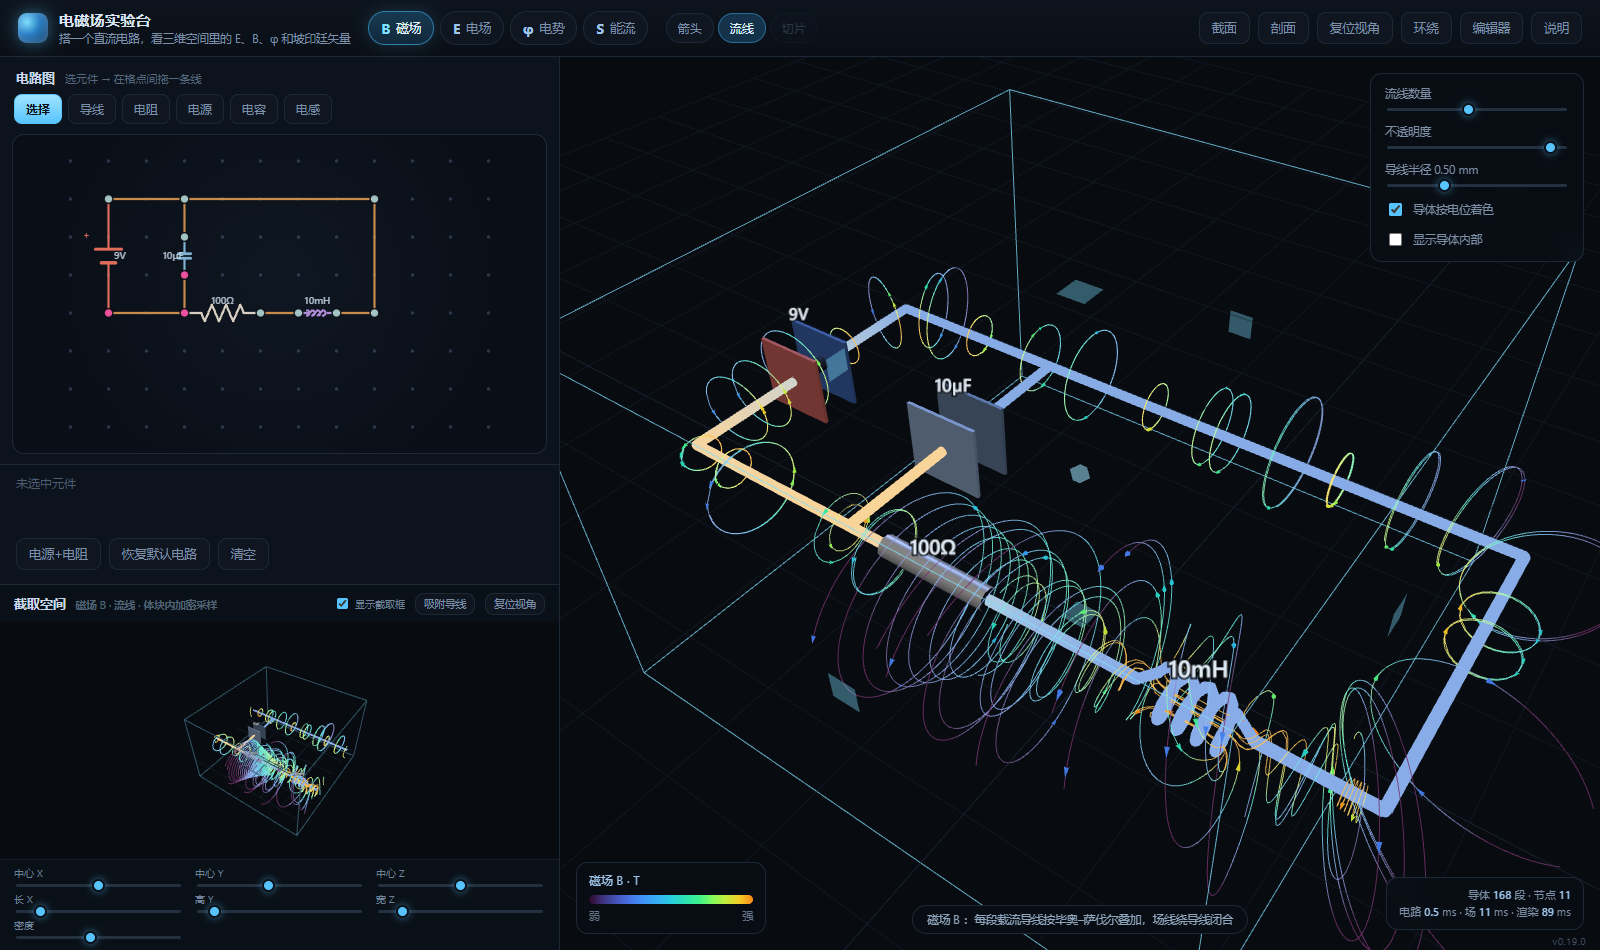
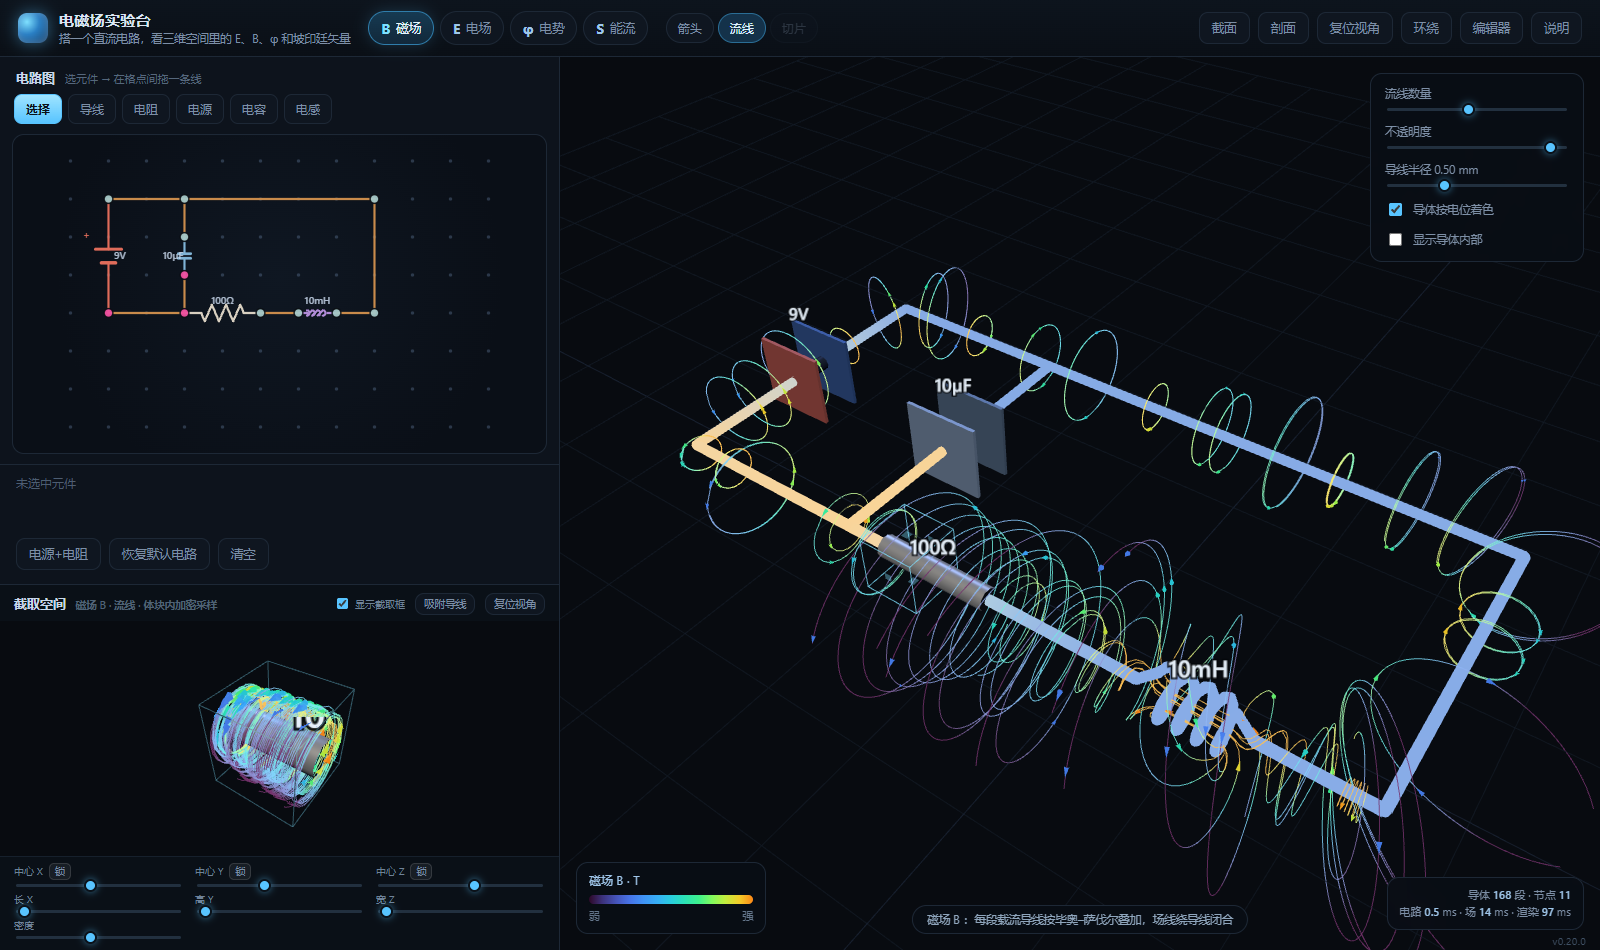
feat: 截取空间默认吸附导线；中心 XYZ 可上锁；去掉独立窗口；立体视图箭头密度可调且与贴图同色（v0.20.0）
- slicepane: 首次进入直接 snapToWire()（原来是铺满整个电路），初始就落在发热最大的导线上
- slicepane + app: 中心 X/Y/Z 各加一个「锁」，锁住的轴在拖动截取框（setWorldBox）和
  拖滑杆（setBox）时都不变，滑杆同时置灰
- slice: 删除 openPopup / pushPopup / 独立窗口按钮（只能丢一张静态图到新窗口，没法交互）
- slice 3D: 箭头网格密度做成滑杆（默认 16×16，和二维图对齐），只在立体模式下显示；
  箭头长度/粗细缩小约 25%；箭头颜色改用和贴图完全相同的归一化，
  修掉「紫色区域外箭头还是紫色」的配色错位
- test: 新增 3 项（独立窗口已移除 / 锁定 X 不改 / 解锁后恢复），共 55 项
- 版本 0.20.0，文档与截图更新

diff --git a/js/slice.js b/js/slice.js
@@ -107,6 +107,7 @@ export class SliceTool {
 
     this.state = { cx: 0, cy: 0, cz: 0, yaw: 0, pitch: 90, size: 3.4, field: 'S', visible: false };
     this.mode3d = false;     // 窗口是否显示「立体视图」
+    this.arrowN = 16;        // 立体视图的箭头网格密度（可调）
     this._paintTick = 0;
 
     this.group = new THREE.Group();
@@ -452,42 +453,6 @@ export class SliceTool {
     this.dom.legendHi.textContent = fmtSci(this.norm.hi);
     this.dom.unit.textContent = f.unit;
     this.dom.title.textContent = f.label;
-    if (this.popup && !this.popup.closed) this.pushPopup();
-  }
-
-  /* ---------------- 独立窗口 ---------------- */
-  openPopup() {
-    try {
-      const w = window.open('', 'emlab-slice', 'width=880,height=980');
-      if (!w) return false;
-      w.document.write(`<!DOCTYPE html><html lang="zh-CN"><head><meta charset="utf-8">
-        <title>电磁场实验台 · 截面</title>
-        <style>html,body{margin:0;background:#070a0f;color:#dbe6f2;
-          font:13px/1.5 'Segoe UI','Microsoft YaHei',sans-serif}
-        #t{padding:10px 14px;font-weight:600;color:#9fc6ea}
-        #img{display:block;width:100%;image-rendering:auto}
-        #lg{padding:8px 14px 16px;color:#7d8fa6;font-size:11.5px}</style></head>
-        <body><div id="t"></div><img id="img" alt="section"><div id="lg"></div></body></html>`);
-      w.document.close();
-      this.popup = w;
-      this.pushPopup();
-      return true;
-    } catch (e) {
-      console.warn('独立窗口打开失败', e);
-      return false;
-    }
-  }
-
-  pushPopup() {
-    const { popup } = this;
-    if (!popup || popup.closed) return;
-    try {
-      popup.document.getElementById('img').src = this.dom.canvas.toDataURL('image/png');
-      popup.document.getElementById('t').textContent =
-        `${FIELDS[this.state.field].label} · ${this.valueN}² 采样 · ${this.state.size.toFixed(2)} 格`;
-      popup.document.getElementById('lg').textContent =
-        `色标 ${fmtSci(this.norm.lo)} → ${fmtSci(this.norm.hi)} ${FIELDS[this.state.field].unit}`;
-    } catch (e) { /* 被跨窗口策略拦掉就算了 */ }
   }
 
   /* ---------------- 交互 ---------------- */
@@ -570,8 +535,14 @@ export class SliceTool {
       this.update();
     }));
     if (d.mode3dBtn) d.mode3dBtn.addEventListener('click', () => this.setMode3D(!this.mode3d));
+    if (d.dens) {
+      d.dens.addEventListener('input', (e) => {
+        this.arrowN = Math.max(4, Math.min(40, +e.target.value));
+        if (d.densLabel) d.densLabel.textContent = String(this.arrowN);
+        this.update3D();
+      });
+    }
     d.wireBtn.addEventListener('click', () => this.attachToWire());
-    d.popBtn.addEventListener('click', () => this.openPopup());
     d.closeBtn.addEventListener('click', () => this.show(false));
     d.canvas.addEventListener('mousemove', (e) => this.probe(e));
     d.canvas.addEventListener('mouseleave', () => { d.probe.textContent = ''; });
@@ -741,7 +712,7 @@ export class SliceTool {
     if (this.state.field === 'phi') return;
 
     const plane = this.plane;
-    const NA = 13;
+    const NA = Math.max(4, Math.min(40, this.arrowN || 16));
     const step = S / NA;
     const items = [];
     for (let j = 0; j < NA; j++) {
@@ -787,13 +758,15 @@ export class SliceTool {
       if (dir.lengthSq() < 1e-12) dir.set(0, 0, 1);
       dir.normalize();
       q.setFromUnitVectors(up, dir);
-      const L = step * (0.45 + 0.55 * t);
+      const L = step * (0.34 + 0.42 * t);
       dummy.position.set(it.u + it.d[0] * L * 0.5, it.v + it.d[1] * L * 0.5, it.d[2] * L * 0.5);
       dummy.quaternion.copy(q);
-      dummy.scale.set(L * 0.34, L, L * 0.34);
+      dummy.scale.set(L * 0.26, L, L * 0.26);
       dummy.updateMatrix();
       mesh.setMatrixAt(k, dummy.matrix);
-      const cc = turbo3(t);
+      // 用和贴图完全相同的归一化，颜色才对得上
+      const nm = this._texNorm || this.norm;
+      const cc = nm ? nm.color(it.m) : turbo3(t);
       col.setRGB(cc[0], cc[1], cc[2], THREE.SRGBColorSpace);
       mesh.setColorAt(k, col);
     }
@@ -818,6 +791,7 @@ export class SliceTool {
       this._raf3 = null;
     }
     if (this.dom.probe) this.dom.probe.classList.toggle('hidden', this.mode3d);
+    if (this.dom.densWrap) this.dom.densWrap.classList.toggle('hidden', !this.mode3d);
   }
 
   /** 平面中心投影到页面坐标（自检/调试用） */

diff --git a/js/app.js b/js/app.js
@@ -36,6 +36,7 @@ const state = {
   slicePos: 0,
   colorByPot: true,
   interior: false,     // 是否画导体内部的场
+  boxLock: { x: false, y: false, z: false },   // 锁定后拖动截取框不会改这一轴
   autoRotate: false,
   wireRadius: 0.05,     // 世界单位（1 单位 = 1 cm）
   analysisOn: false,
@@ -82,8 +83,9 @@ const slice = new SliceTool(scene3d, {
   cxLabel: $('sw-cx-label'), cyLabel: $('sw-cy-label'), czLabel: $('sw-cz-label'),
   sizeLabel: $('sw-size-label'),
   field: $('sw-field'), axisButtons: [...document.querySelectorAll('#sw-axis button')],
-  wireBtn: $('sw-wire'), popBtn: $('sw-pop'), closeBtn: $('sw-close'), probe: $('sw-probe'),
+  wireBtn: $('sw-wire'), closeBtn: $('sw-close'), probe: $('sw-probe'),
   canvas3: $('sw-canvas3'), mode3dBtn: $('sw-mode3d'),
+  dens: $('sw-dens'), densWrap: $('sw-dens-wrap'), densLabel: $('sw-dens-label'),
 });
 
 /* ---------------- 求解 + 重建 ---------------- */
@@ -338,6 +340,9 @@ const spBind = (id, key, scale) => {
   const el = $(id);
   if (!el) return;
   el.addEventListener('input', (e) => {
+    if (key === 'cx' && state.boxLock.x) return;
+    if (key === 'cy' && state.boxLock.y) return;
+    if (key === 'cz' && state.boxLock.z) return;
     slicePane.setBox({ [key]: +e.target.value / scale });
     boxGizmo.setBox(slicePane.worldBox);
     // 改尺寸时自动重新取景，让体块继续铺满画框
@@ -353,6 +358,23 @@ spBind('sp-cz', 'cz', 20);
 spBind('sp-sx', 'sx', 10);
 spBind('sp-sy', 'sy', 10);
 spBind('sp-sz', 'sz', 10);
+// 中心轴锁定：锁住后拖动截取框 / 拖滑杆都不会改这一轴
+const LOCK_SLIDER = { x: 'sp-cx', y: 'sp-cy', z: 'sp-cz' };
+for (const ax of ['x', 'y', 'z']) {
+  const btn = $('sp-lock-' + ax);
+  if (!btn) continue;
+  btn.addEventListener('click', (e) => {
+    e.preventDefault();
+    e.stopPropagation();
+    state.boxLock[ax] = !state.boxLock[ax];
+    btn.classList.toggle('on', state.boxLock[ax]);
+    const rng = $(LOCK_SLIDER[ax]);
+    if (rng) rng.disabled = state.boxLock[ax];
+    slicePane.setLocks(state.boxLock);
+  });
+}
+slicePane.setLocks(state.boxLock);
+
 $('sp-fit')?.addEventListener('click', () => slicePane.frame());
 $('sp-snap')?.addEventListener('click', () => {
   slicePane.snapToWire();
@@ -758,6 +780,30 @@ function runSelfTest() {
       ok(true, '截取空间面板');
     } catch (err) {
       ok(false, '截取空间面板抛错', String(err.message).slice(0, 80));
+    }
+
+    // 9.58 中心轴锁定 + 独立窗口已移除
+    try {
+      ok(document.getElementById('sw-pop') === null, '独立窗口按钮已移除');
+      const wb = slicePane.worldBox;
+      const min0 = [...wb.min], max0 = [...wb.max];
+      const cx0 = slicePane.box.cx;
+
+      state.boxLock.x = true;
+      slicePane.setLocks(state.boxLock);
+      slicePane.setWorldBox([min0[0] + 2, min0[1], min0[2]], [max0[0] + 2, max0[1], max0[2]]);
+      ok(Math.abs(slicePane.box.cx - cx0) < 1e-9, '锁定 X 后拖动不改中心 X');
+
+      state.boxLock.x = false;
+      slicePane.setLocks(state.boxLock);
+      slicePane.setWorldBox([min0[0] + 2, min0[1], min0[2]], [max0[0] + 2, max0[1], max0[2]]);
+      ok(Math.abs(slicePane.box.cx - cx0 - 2) < 0.05, '解锁后拖动恢复修改中心 X');
+
+      slicePane.setWorldBox(min0, max0);
+    } catch (err) {
+      ok(false, '锁定轴测试抛错', String(err.message).slice(0, 80));
+      state.boxLock.x = false;
+      slicePane.setLocks(state.boxLock);
     }
 
     // 9.59 面板里的导体内部箭头

diff --git a/index.html b/index.html
@@ -91,9 +91,9 @@
       </div>
       <div id="sp-container"></div>
       <div class="sp-ctl">
-        <label><span>中心 X</span><input type="range" id="sp-cx" min="-150" max="150" value="0"></label>
-        <label><span>中心 Y</span><input type="range" id="sp-cy" min="-100" max="150" value="7"></label>
-        <label><span>中心 Z</span><input type="range" id="sp-cz" min="-150" max="150" value="0"></label>
+        <label class="locked-wrap"><span>中心 X<button type="button" class="lockbtn" id="sp-lock-x" title="锁定后拖动截取框不会改变 X">锁</button></span><input type="range" id="sp-cx" min="-150" max="150" value="0"></label>
+        <label class="locked-wrap"><span>中心 Y<button type="button" class="lockbtn" id="sp-lock-y" title="锁定后拖动截取框不会改变 Y">锁</button></span><input type="range" id="sp-cy" min="-100" max="150" value="7"></label>
+        <label class="locked-wrap"><span>中心 Z<button type="button" class="lockbtn" id="sp-lock-z" title="锁定后拖动截取框不会改变 Z">锁</button></span><input type="range" id="sp-cz" min="-150" max="150" value="0"></label>
         <label><span>长 X</span><input type="range" id="sp-sx" min="0" max="240" value="48"></label>
         <label><span>高 Y</span><input type="range" id="sp-sy" min="0" max="240" value="30"></label>
         <label><span>宽 Z</span><input type="range" id="sp-sz" min="0" max="240" value="48"></label>
@@ -152,7 +152,6 @@
           <span class="sw-title">截面 · <b id="sw-title">|S| 能流</b></span>
           <span class="sw-btns">
             <button id="sw-mode3d" title="把截面图放到可旋转的立体视图里（平面贴图 + 立体箭头）">立体</button>
-            <button id="sw-pop" title="在独立窗口里打开（可拖到另一块屏幕）">独立窗口</button>
             <button id="sw-close" title="关闭">×</button>
           </span>
         </div>
@@ -183,6 +182,8 @@
           <label><span>俯仰</span><input type="range" id="sw-pitch" min="-90" max="90" value="90"></label>
           <label><span>尺寸 <i id="sw-size-label">3.40 格</i></span>
             <input type="range" id="sw-size" min="2" max="90" value="34"></label>
+          <label id="sw-dens-wrap" class="hidden"><span>箭头密度 <i id="sw-dens-label">16</i></span>
+            <input type="range" id="sw-dens" min="5" max="30" value="16"></label>
         </div>
         <div class="sw-foot">
           <div class="seg" id="sw-axis">

diff --git a/js/slicepane.js b/js/slicepane.js
@@ -57,9 +57,10 @@ export class SlicePane {
   setWorldBox(min, max) {
     const base = this.base;
     const c = [(min[0] + max[0]) / 2, (min[1] + max[1]) / 2, (min[2] + max[2]) / 2];
-    this.box.cx = c[0] - base[0];
-    this.box.cy = c[1] - base[1];
-    this.box.cz = c[2] - base[2];
+    const L = this.locks || {};
+    this.box.cx = L.x ? this.box.cx : c[0] - base[0];
+    this.box.cy = L.y ? this.box.cy : c[1] - base[1];
+    this.box.cz = L.z ? this.box.cz : c[2] - base[2];
     this.box.sx = Math.max(0.004, (max[0] - min[0]) / 2);
     this.box.sy = Math.max(0.004, (max[1] - min[1]) / 2);
     this.box.sz = Math.max(0.004, (max[2] - min[2]) / 2);
@@ -87,6 +88,9 @@ export class SlicePane {
   }
 
   /* ---------------- 场景 ---------------- */
+  /** 锁定的中心轴：锁定后拖动截取框不会改这一轴 */
+  setLocks(l) { this.locks = { x: !!(l && l.x), y: !!(l && l.y), z: !!(l && l.z) }; }
+
   setScene({ solver, bounds, parts, colorByPotential, conductorR }) {
     this.solver = solver;
     this.bounds = bounds;
@@ -99,10 +103,11 @@ export class SlicePane {
       (bounds.min[2] + bounds.max[2]) / 2,
     ];
     if (!this._fitted) {
-      const span = Math.max(bounds.max[0] - bounds.min[0], bounds.max[2] - bounds.min[2], 3);
-      this.box.sx = this.box.sz = Math.max(1.2, span * 0.42);
-      this.box.sy = Math.max(0.9, span * 0.26);
       this._fitted = true;
+      this._fittedOnce = true;
+      // 初始位置 = 吸附到发热最大的那根导线（比铺满整个电路好用）
+      this.snapToWire();
+      this._framed = false;
     }
     const box = this.worldBox;
     this.scene.setClipPlanes(SlicePane.planesFor(box));
@@ -115,7 +120,12 @@ export class SlicePane {
 
   /** 只改体块：重设裁剪面 + 重算可视化 */
   setBox(patch) {
-    Object.assign(this.box, patch);
+    const L = this.locks || {};
+    const p = { ...patch };
+    if (L.x) delete p.cx;
+    if (L.y) delete p.cy;
+    if (L.z) delete p.cz;
+    Object.assign(this.box, p);
     this.applyBoxChange();
   }
 

diff --git a/css/style.css b/css/style.css
@@ -480,6 +480,26 @@ input[type=range]::-webkit-slider-thumb {
   touch-action: none;
 }
 
+.lockbtn {
+  margin-left: 6px;
+  padding: 0 5px;
+  height: 17px;
+  line-height: 15px;
+  font-size: 10px;
+  color: var(--muted);
+  background: rgba(255, 255, 255, 0.06);
+  border: 1px solid rgba(255, 255, 255, 0.12);
+  border-radius: 5px;
+  cursor: pointer;
+}
+.lockbtn:hover { color: var(--fg); }
+.lockbtn.on {
+  color: #0a1016;
+  background: #6ee7a8;
+  border-color: #6ee7a8;
+}
+.locked-wrap input[type="range"]:disabled { opacity: 0.35; }
+
 .sw-tip {
   margin: 4px 0 2px;
   font-size: 11px;

diff --git a/js/version.js b/js/version.js
@@ -2,5 +2,5 @@
  * version.js —— 版本号的唯一来源
  * BUILD 由 tools/build_single.py 在打包时写入 git 短哈希。
  */
-export const VERSION = '0.19.0';
+export const VERSION = '0.20.0';
 export const BUILD = null;

diff --git a/README.md b/README.md
@@ -76,12 +76,16 @@ python -m http.server 8765    # 然后开 http://127.0.0.1:8765/
 | 场选择 | 截面里画 φ / \|E\| / \|B\| / \|S\| |
 | **独立窗口** | 用一个真正的浏览器窗口打开当前图像，可以拖到第二块屏幕上看 |
 
-窗口可以按住标题栏拖到任意位置；鼠标移到图上会实时读数。
+窗口可以按住标题栏拖到任意位置；鼠标移到图上会实时读数。（原先的「独立窗口」按钮已经去掉——
+它只能把一张静态图丢到新窗口里，没法交互，反而占位置。）
 
 **立体视图**：点窗口标题栏的 `立体` 按钮，二维截面图会变成一块可以自由旋转的平面
 （贴图就是原来那张图），上面浮着一层真正三维的箭头——箭头按真实的三维矢量摆放，
 所以「进出纸面」的分量也看得见，不再被压平成二维投影。
 拖拽旋转 / 滚轮缩放，和主视图一样。再点一次回到二维。
+
+立体模式下会多出一个 **「箭头密度」** 滑杆（5–30），默认 16×16，和二维图上的箭头密度对齐；
+箭头是短的锥体，颜色和贴图共用同一套归一化，所以「橙色区域里的箭头」一定是橙色的。
 拖动滑块时先用 150² 快速出图，停手 300 ms 后自动升级到 384²。
 
 **这块截面也能直接在三维视图里操作**：
@@ -122,7 +126,11 @@ python -m http.server 8765    # 然后开 http://127.0.0.1:8765/
 - **底部滑杆**：`中心 X/Y/Z`、`长 X`、`高 Y`、`宽 Z`、`密度`
   （尺寸 0 – 24 格：可以压成一层薄片，也可以放大到把整个电路和周围空间都框进来）
 - 改尺寸时相机会**自动重新取景**，体块始终铺满画框；相机本身也能推得很近/拉得很远
+- **初始位置就是吸附导线后的状态**：打开时体块已经落在发热最大的那根导线上，
+  不用再手动去找
 - **吸附导线**：一键把体块对准发热最大的那根导线，尺寸自动收到导线附近
+- **中心 X/Y/Z 可以各自上锁**：点滑杆标题旁边的「锁」，锁住的轴在拖动截取框时不会变，
+  方便只在一个方向上扫
 
 主视图里那个青色线框可以用「显示截取框」单独关掉——**关掉只影响线框，不影响下面这块的裁剪**。
 两个视图各有自己的「密度」滑杆（主视图右上角、截取空间底部），互不影响；
